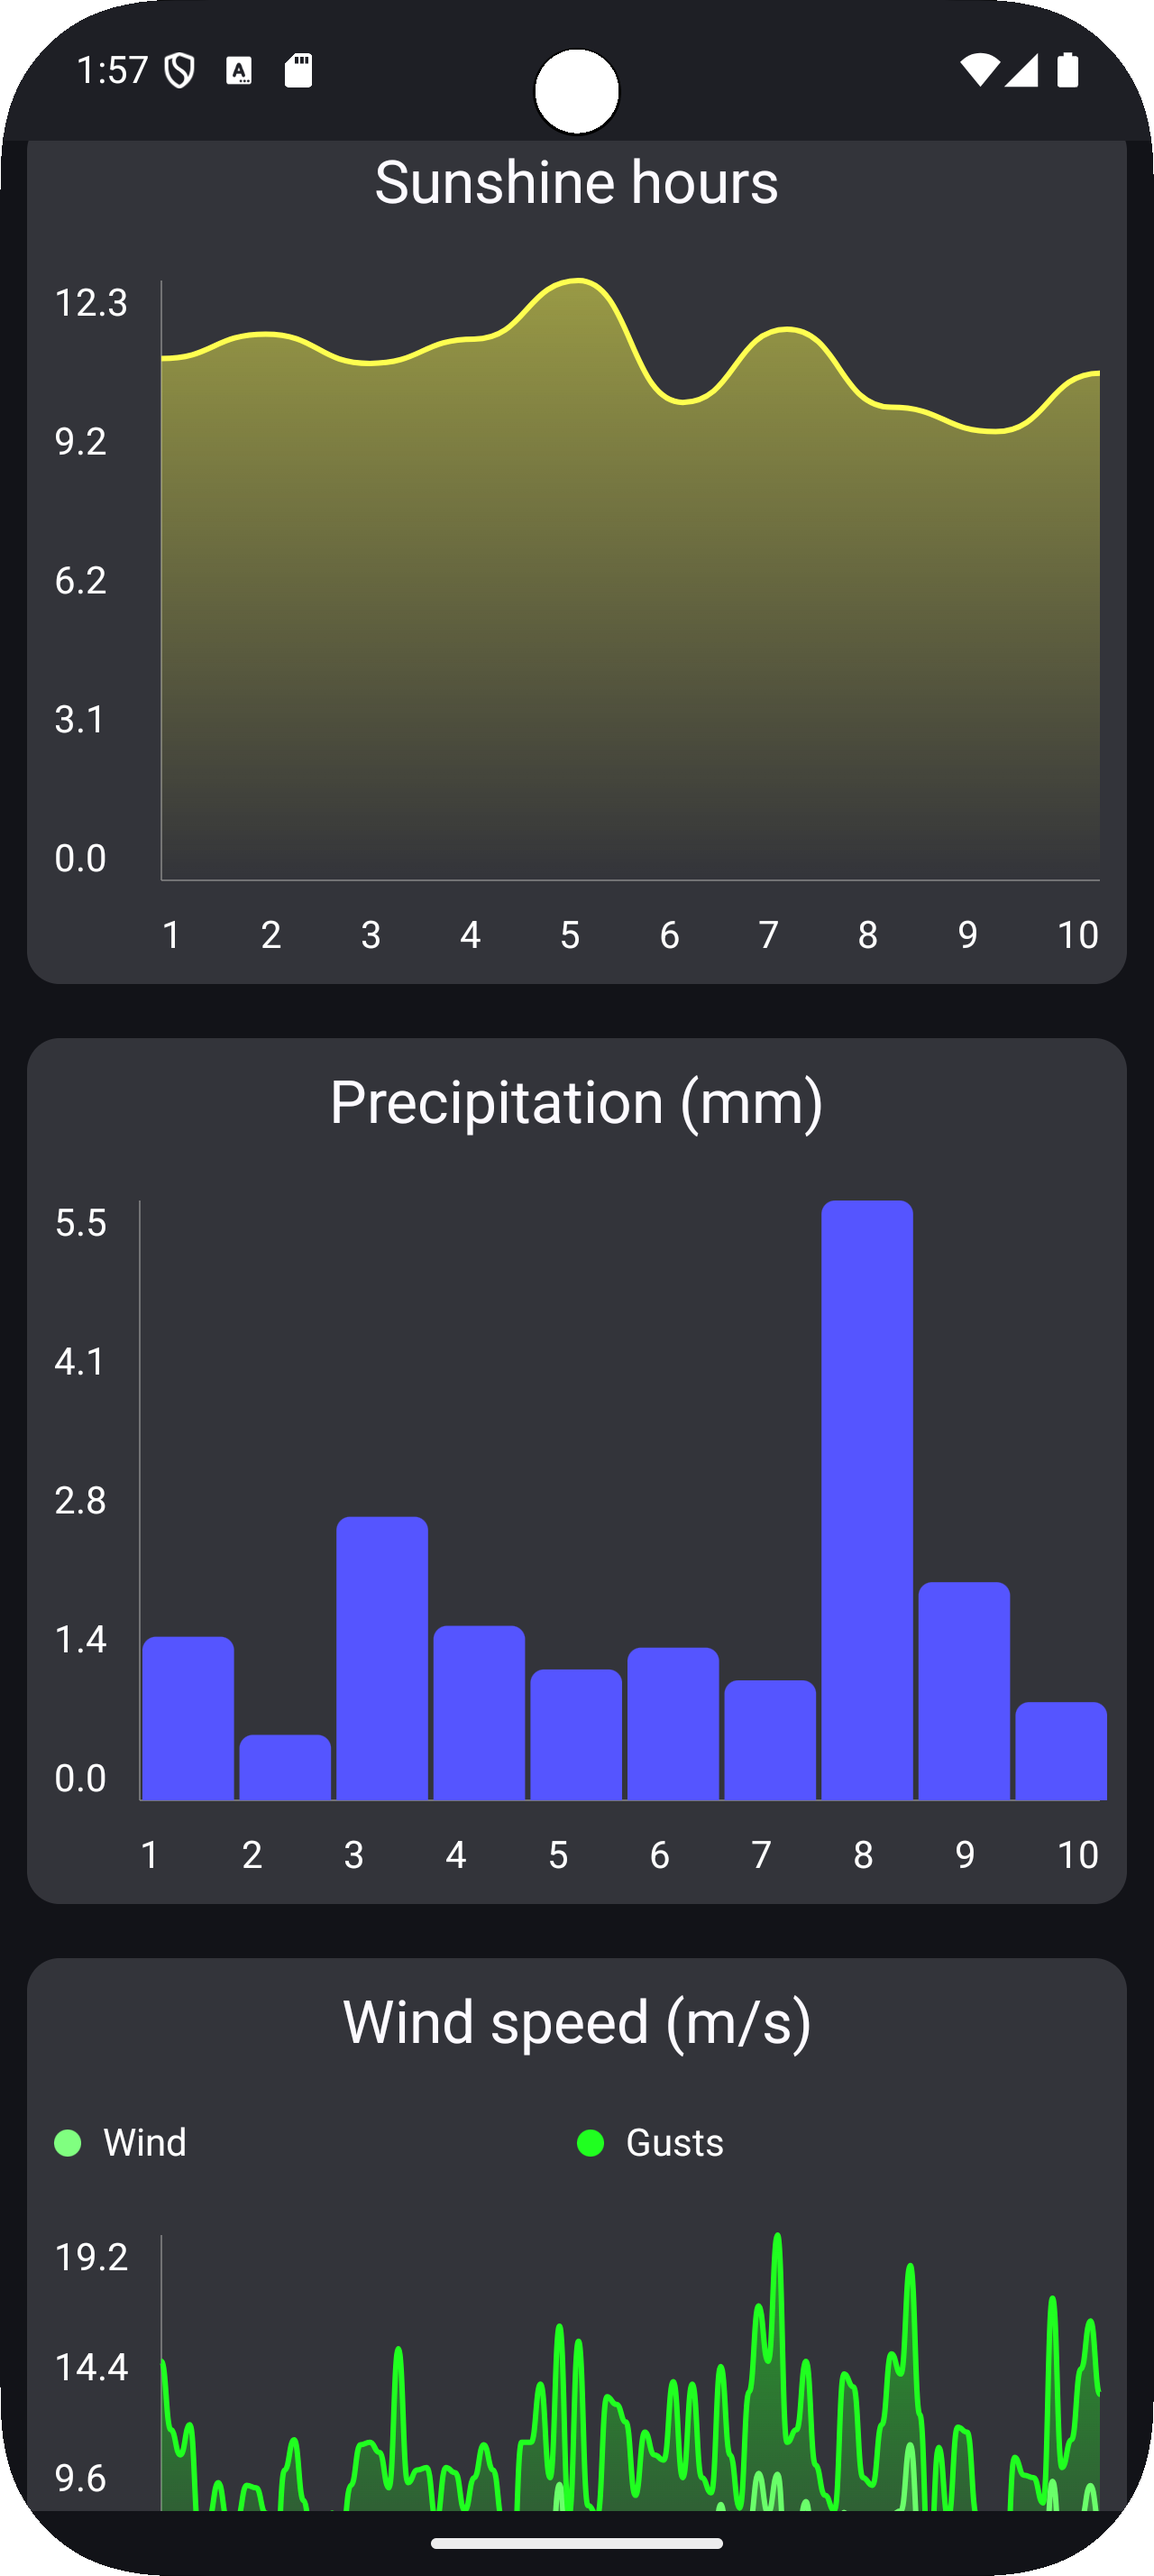
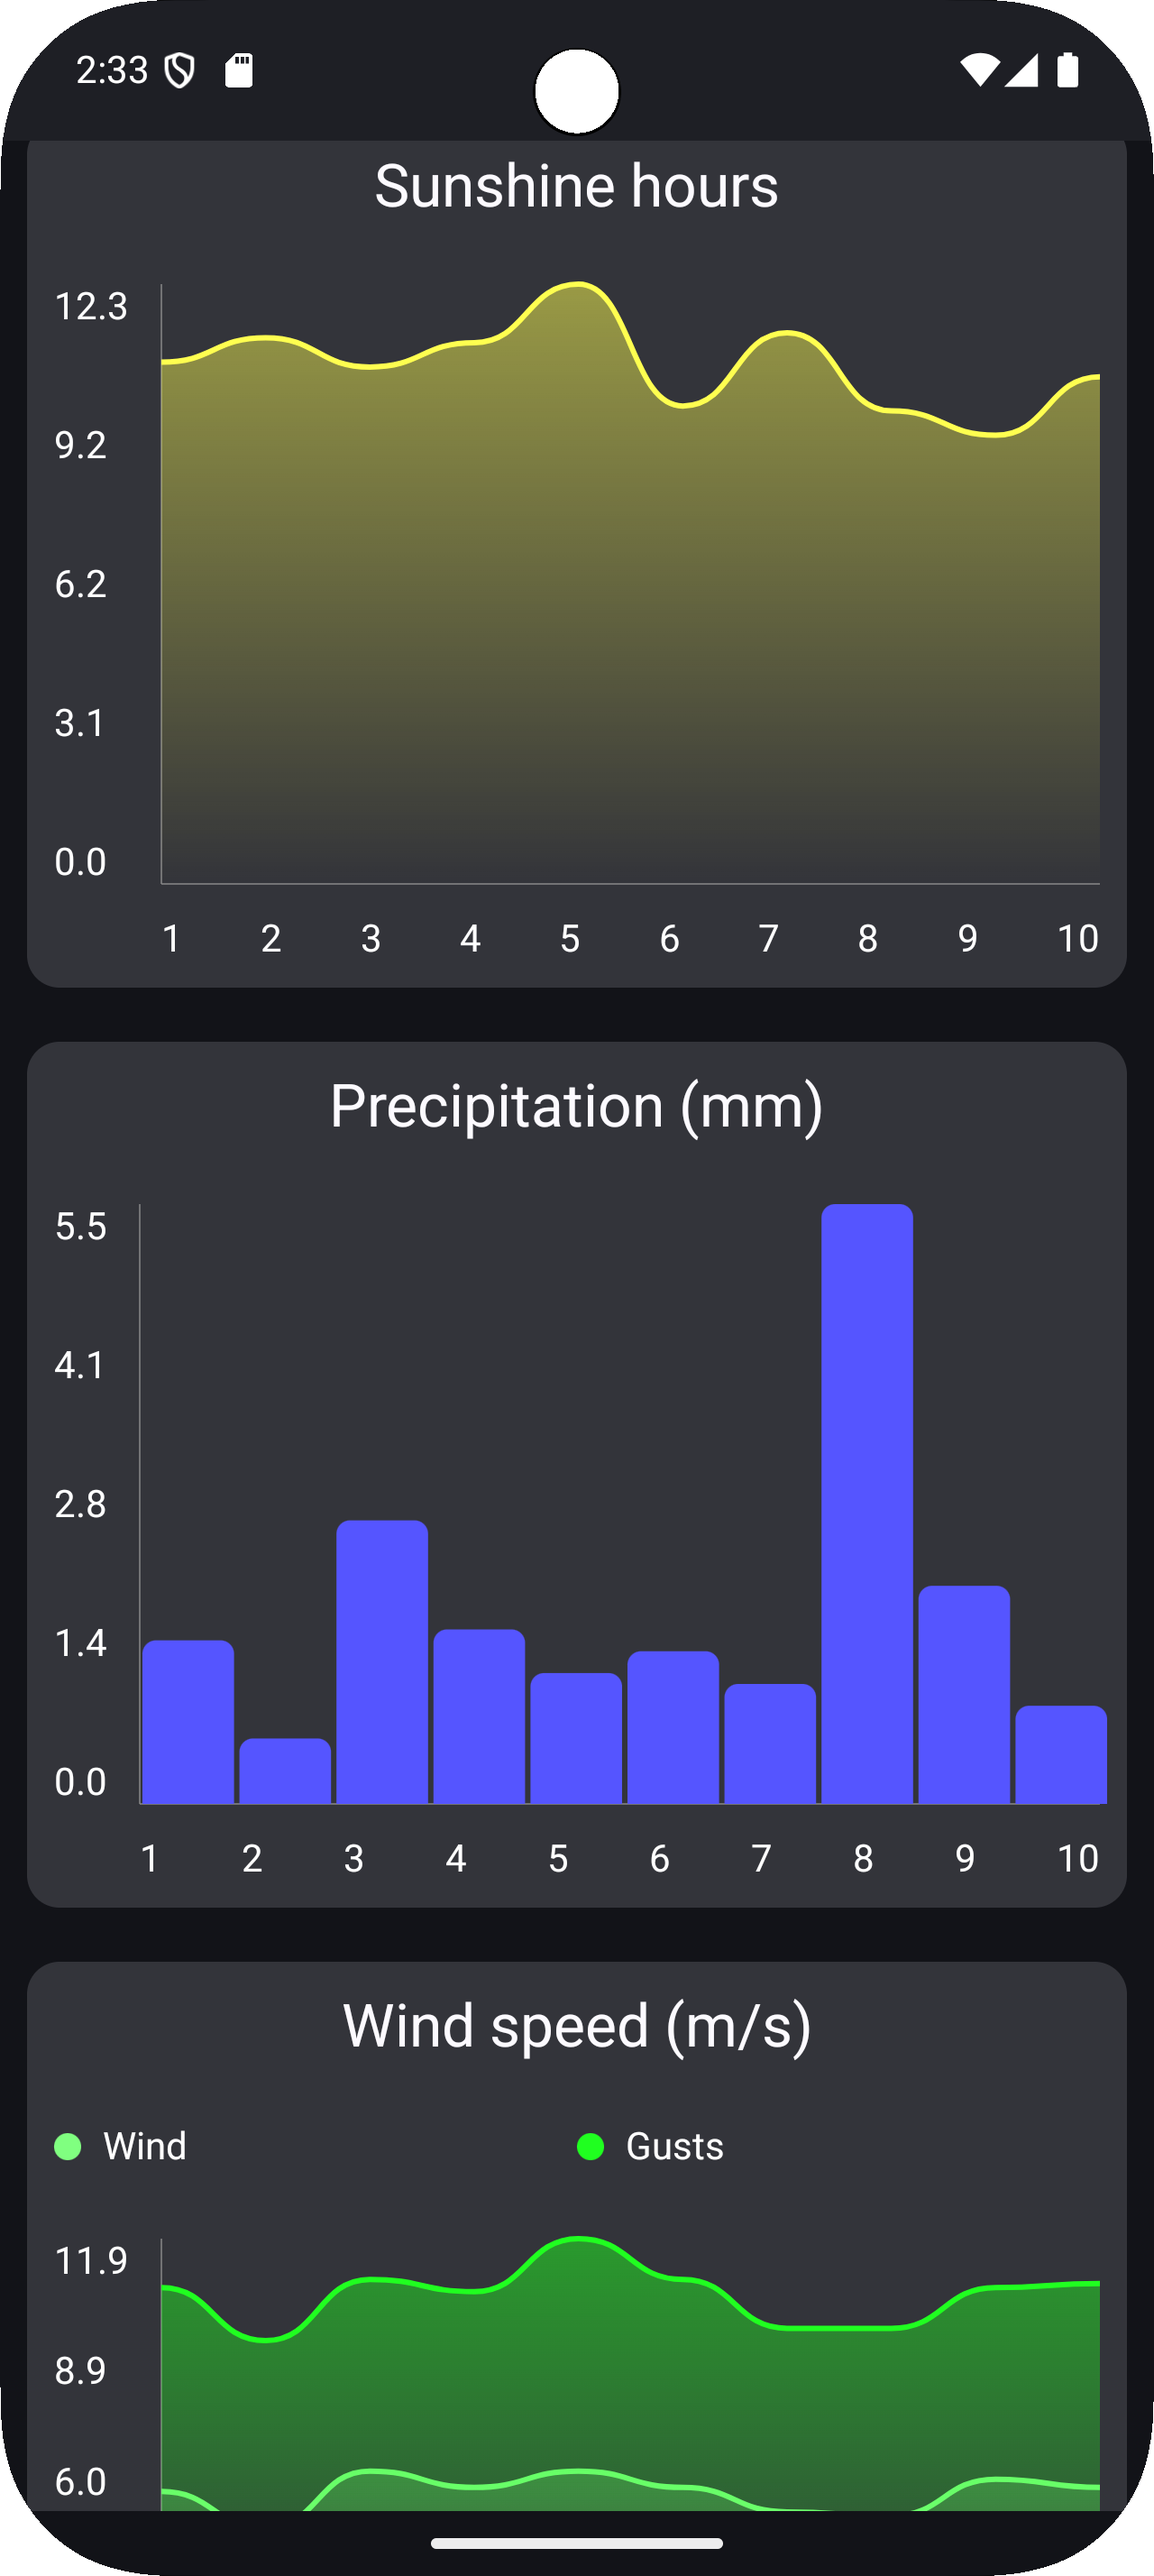
feat: Add average wind gust speed and update version to 0.4
This commit adds average wind gust speed data to the daily aggregated data model and updates the application version.
- Added `avgWindGustSpeed` property to `DailyAggregatedData` model.
- Modified `AggregateWeatherByDateUseCase` to calculate and assign the `avgWindGustSpeed`.
- Updated `MainViewModel` to retrieve and handle the wind gust speed.
- Updated the `windGustsSpeed` data in `MainViewModel` to use the actual wind gust data.
- Updated the app version from 0.3 to 0.4 in `build.gradle.kts`.

diff --git a/app/src/main/java/com/hsact/sunplanner/ui/mainscreen/MainViewModel.kt b/app/src/main/java/com/hsact/sunplanner/ui/mainscreen/MainViewModel.kt
@@ -220,6 +220,8 @@ class MainViewModel @Inject constructor(
         var sunshine = _searchDataUI.value.weatherData!!.daily.sunshineDuration
             .map { ((it / 3600.0) * 10).roundToInt() / 10.0 }
         var precipitation = _searchDataUI.value.weatherData!!.daily.precipitationSum
+        var windSpeed = _searchDataUI.value.weatherData!!.daily.windSpeedMax
+        var gustSpeed = _searchDataUI.value.weatherData!!.daily.windGustsMax
 
         if (_searchDataUI.value.startLD.year == _searchDataUI.value.endLD.year) {
             _searchDataUI.value = _searchDataUI.value.copy(isOneYear = true)
@@ -236,6 +238,8 @@ class MainViewModel @Inject constructor(
             minTemps = aggregated.map { it.avgMinTemp }
             sunshine = aggregated.map { (it.avgSunshineSeconds / 3600.0 * 10).roundToInt() / 10.0 }
             precipitation = aggregated.map { it.avgPrecipitation }
+            windSpeed = aggregated.map { it.avgWindSpeed }
+            gustSpeed = aggregated.map { it.avgWindGustSpeed }
         } else {
             _searchDataUI.value = _searchDataUI.value.copy(isOneDay = true)
         }
@@ -262,13 +266,13 @@ class MainViewModel @Inject constructor(
 
         _searchDataUI.value.windSpeed =
             createWeatherGraphLineUseCase.invoke(
-                stringProvider.wind(), data.daily.windSpeedMax,
+                stringProvider.wind(), windSpeed,
                 windSpeedColor, _searchDataUI.value.isOneYear
             )
 
         _searchDataUI.value.windGustsSpeed =
             createWeatherGraphLineUseCase.invoke(
-                stringProvider.gusts(), data.daily.windGustsMax,
+                stringProvider.gusts(), gustSpeed,
                 windGustsSpeedColor, _searchDataUI.value.isOneYear
             )
     }

diff --git a/app/src/main/java/com/hsact/sunplanner/domain/usecase/AggregateWeatherByDateUseCase.kt b/app/src/main/java/com/hsact/sunplanner/domain/usecase/AggregateWeatherByDateUseCase.kt
@@ -27,6 +27,7 @@ class AggregateWeatherByDateUseCase @Inject constructor() {
                 avgSunshineSeconds = (avgHours(daily.sunshineDuration) * 10).roundToInt() / 10.0,
                 avgPrecipitation = (avg(daily.precipitationSum) * 10).roundToInt() / 10.0,
                 avgWindSpeed = (avg(daily.windSpeedMax) * 10).roundToInt() / 10.0,
+                avgWindGustSpeed = (avg(daily.windGustsMax) * 10).roundToInt() / 10.0
             )
         }.sortedBy { it.date }
     }

diff --git a/app/src/main/java/com/hsact/sunplanner/domain/model/DailyAggregatedData.kt b/app/src/main/java/com/hsact/sunplanner/domain/model/DailyAggregatedData.kt
@@ -6,5 +6,6 @@ data class DailyAggregatedData(
     val avgMinTemp: Double,
     val avgSunshineSeconds: Double,
     val avgPrecipitation: Double,
-    val avgWindSpeed: Double
+    val avgWindSpeed: Double,
+    val avgWindGustSpeed: Double
 )
